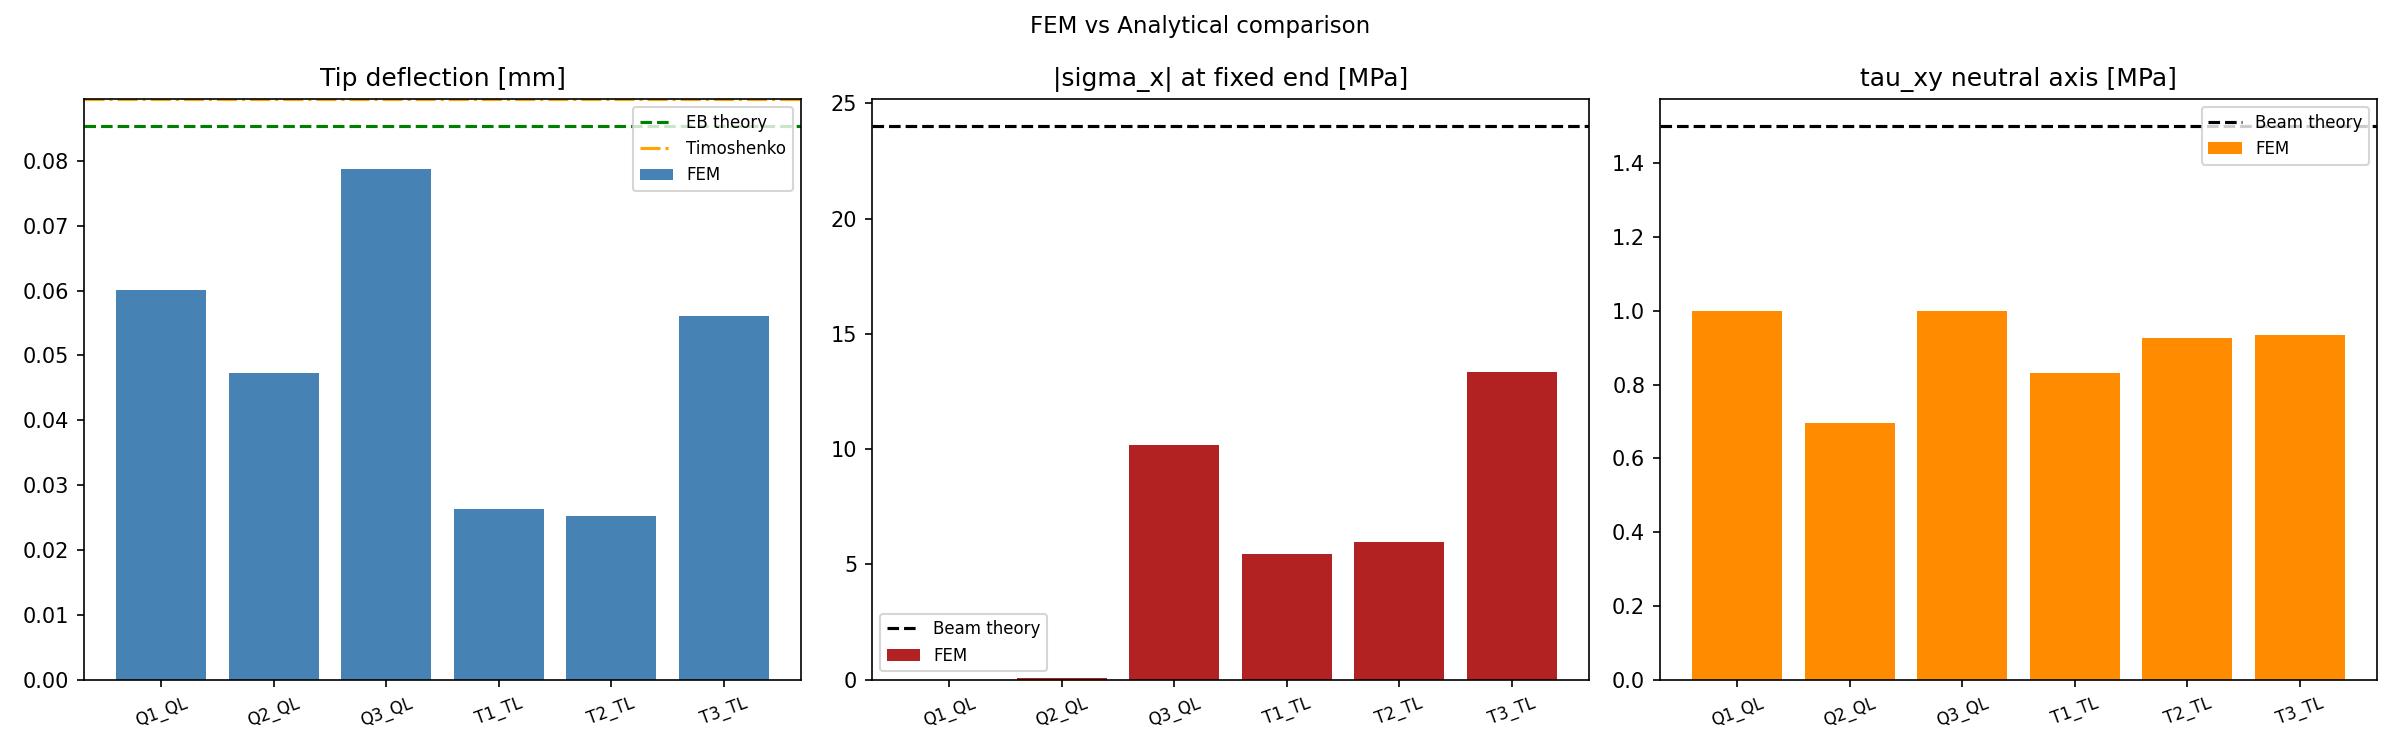
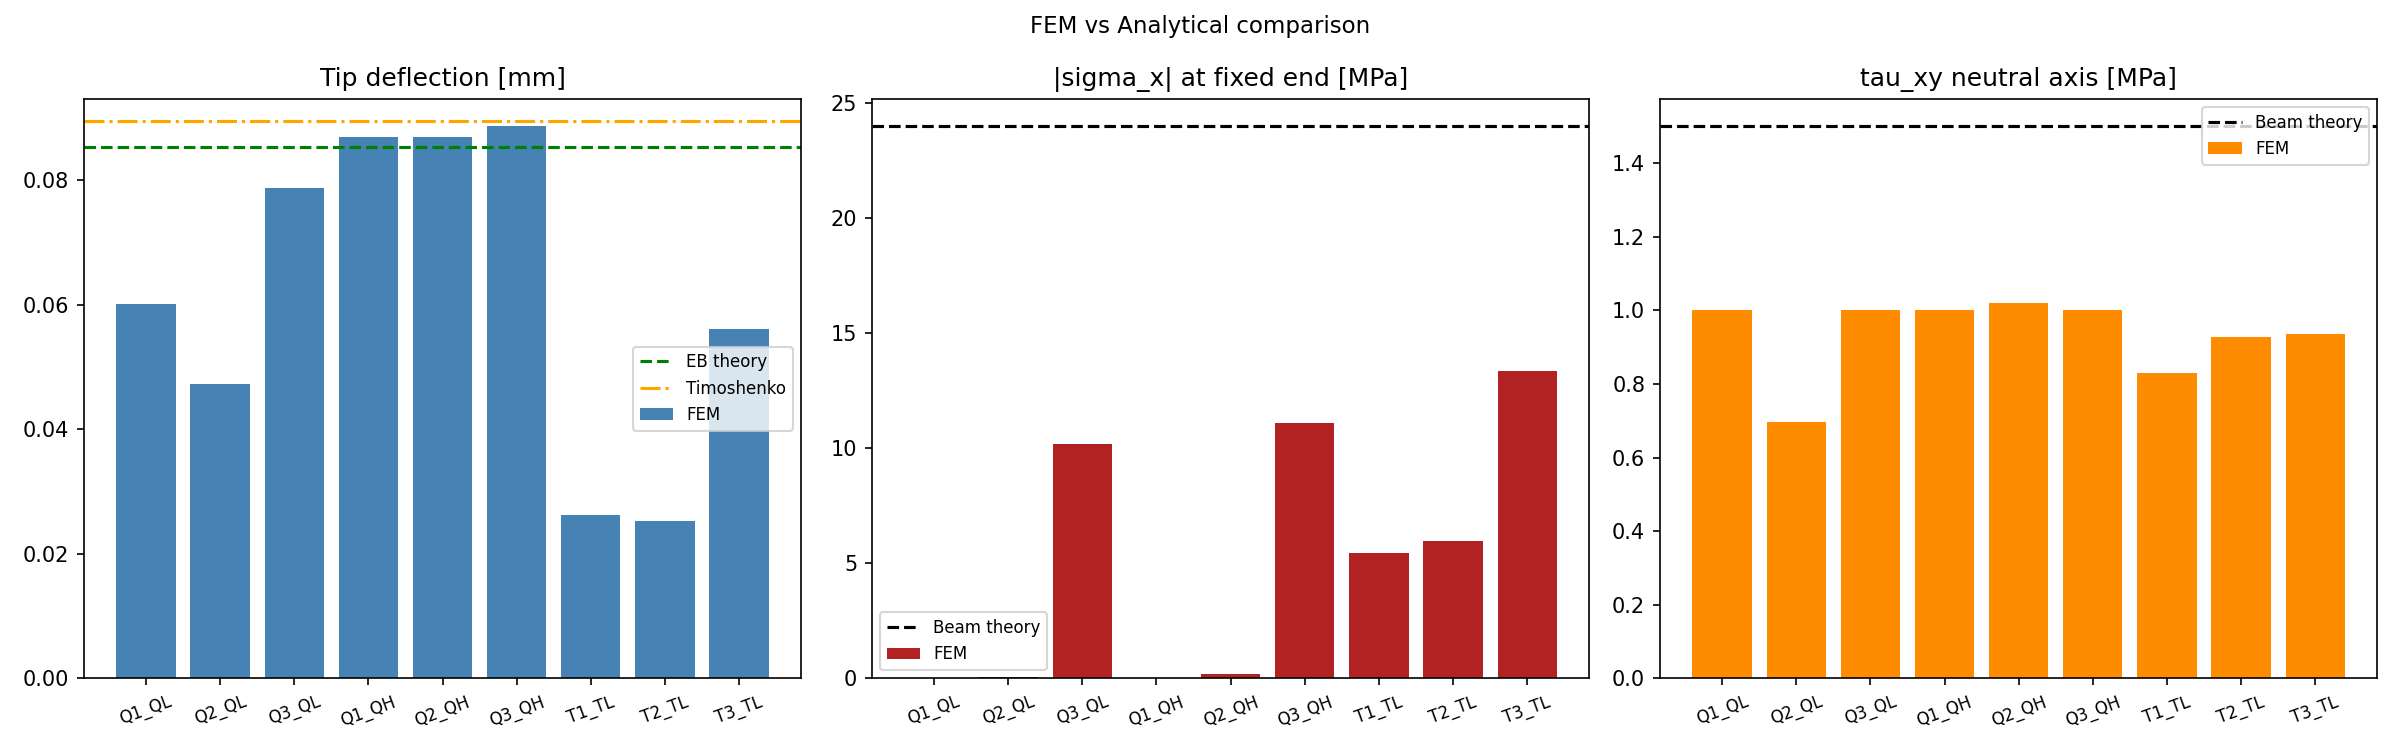
sec 2.1.2: add QH (8-node serendipity) element; Q1/Q2/Q3_QH cases

diff --git a/sec_02/2.1/2/fem_plane_stress_beam.py b/sec_02/2.1/2/fem_plane_stress_beam.py
@@ -7,10 +7,11 @@ The implementation is being migrated to the textbook's original separation:
     - mesh pattern (figure 2.3): Q1, Q2, Q3, T1, T2, T3
     - element version (figure 2.2): QL, QH, TL, TH, ...
 
-This file currently implements the linear versions only:
+This file currently implements the linear and serendipity quadrilateral versions:
 
-    - Q1_QL, Q2_QL, Q3_QL
-    - T1_TL, T2_TL, T3_TL
+    - Q1_QL, Q2_QL, Q3_QL   (4-node bilinear quadrilateral)
+    - Q1_QH, Q2_QH, Q3_QH   (8-node serendipity quadrilateral)
+    - T1_TL, T2_TL, T3_TL   (3-node constant-strain triangle)
 
 The important correction is that T1/T2/T3 are now generated as direct
 triangle meshes following figure 2.3, instead of being produced by splitting
@@ -78,11 +79,14 @@ boundary_conditions: dict[str, Any] = {
     "left_edge_fixed": True,  # ux = uy = 0 on x = 0
 }
 
-# Current implemented cases: figure 2.3 mesh patterns with linear versions.
+# Current implemented cases: figure 2.3 mesh patterns with linear and QH versions.
 analysis_cases: list[dict[str, str]] = [
     {"name": "Q1_QL", "mesh_pattern": "Q1", "element_version": "QL"},
     {"name": "Q2_QL", "mesh_pattern": "Q2", "element_version": "QL"},
     {"name": "Q3_QL", "mesh_pattern": "Q3", "element_version": "QL"},
+    {"name": "Q1_QH", "mesh_pattern": "Q1", "element_version": "QH"},
+    {"name": "Q2_QH", "mesh_pattern": "Q2", "element_version": "QH"},
+    {"name": "Q3_QH", "mesh_pattern": "Q3", "element_version": "QH"},
     {"name": "T1_TL", "mesh_pattern": "T1", "element_version": "TL"},
     {"name": "T2_TL", "mesh_pattern": "T2", "element_version": "TL"},
     {"name": "T3_TL", "mesh_pattern": "T3", "element_version": "TL"},
@@ -125,6 +129,8 @@ class MeshData:
     fixed_nodes: np.ndarray  # shape (F,)    node indices on x = 0
     mesh_pattern: str
     characteristic_dx: float
+    q8_elements: np.ndarray | None = None  # shape (E, 8)  node indices per Q8 cell
+    right_edge_midnodes: np.ndarray | None = None  # shape (R,)  midside node per right edge
 
 
 @dataclass
@@ -381,11 +387,96 @@ def _build_triangle_mesh(pattern: str) -> MeshData:
 
 
 def generate_beam_mesh(case_cfg: dict[str, str]) -> MeshData:
-    """Generate one textbook mesh pattern directly from figure 2.3."""
+    """Generate one textbook mesh pattern directly from figure 2.3.
+
+    For QH element version the base Q4 mesh is enriched with midside nodes
+    to produce a Q8 (serendipity) mesh.
+    """
     mesh_pattern = case_cfg["mesh_pattern"]
+    element_version = case_cfg["element_version"]
     if mesh_pattern.startswith("Q"):
-        return _build_quad_mesh(mesh_pattern)
+        base_mesh = _build_quad_mesh(mesh_pattern)
+        if element_version == "QH":
+            return enrich_q4_to_q8(base_mesh)
+        return base_mesh
     return _build_triangle_mesh(mesh_pattern)
+
+
+# ---------------------------------------------------------------------------
+# Q8 mesh enrichment
+# ---------------------------------------------------------------------------
+
+
+def enrich_q4_to_q8(mesh: MeshData) -> MeshData:
+    """Add midside nodes to a Q4 mesh to produce a Q8 (serendipity) mesh.
+
+    Each edge shared between two Q4 elements gets exactly one midside node.
+    Boundary edges on the right face and fixed left face are handled
+    consistently so traction and constraint DOFs are correct.
+
+    Node ordering in each Q8 element:
+        [n_sw, n_se, n_ne, n_nw, m_s, m_e, m_n, m_w]
+
+    Args:
+        mesh: Q4 MeshData (must have quad_elements set).
+
+    Returns:
+        New MeshData with extended nodes, q8_elements, right_edge_midnodes,
+        and fixed_nodes augmented by left-edge midside nodes.
+
+    Raises:
+        ValueError: If mesh has no quadrilateral connectivity.
+    """
+    if mesh.quad_elements is None:
+        raise ValueError("enrich_q4_to_q8 requires quad_elements to be set.")
+
+    new_nodes: list[np.ndarray] = list(mesh.nodes)
+    edge_to_midnode: dict[tuple[int, int], int] = {}
+
+    def get_midnode(n1: int, n2: int) -> int:
+        """Return (creating if needed) the midside node index for edge (n1,n2)."""
+        key = (min(n1, n2), max(n1, n2))
+        if key not in edge_to_midnode:
+            mid = (mesh.nodes[n1] + mesh.nodes[n2]) * 0.5
+            idx = len(new_nodes)
+            new_nodes.append(mid)
+            edge_to_midnode[key] = idx
+        return edge_to_midnode[key]
+
+    # Build Q8 connectivity.  Q4 ordering: [SW, SE, NE, NW]
+    q8_list: list[list[int]] = []
+    for conn in mesh.quad_elements:
+        n_sw, n_se, n_ne, n_nw = int(conn[0]), int(conn[1]), int(conn[2]), int(conn[3])
+        m_s = get_midnode(n_sw, n_se)  # South midside
+        m_e = get_midnode(n_se, n_ne)  # East  midside
+        m_n = get_midnode(n_ne, n_nw)  # North midside
+        m_w = get_midnode(n_nw, n_sw)  # West  midside
+        q8_list.append([n_sw, n_se, n_ne, n_nw, m_s, m_e, m_n, m_w])
+
+    # Right-edge midside nodes (one per original right edge pair).
+    right_mid: list[int] = []
+    for n1, n2 in mesh.right_edges:
+        right_mid.append(get_midnode(int(n1), int(n2)))
+
+    # Fixed (left-edge) midside nodes.
+    sorted_fixed = np.sort(mesh.fixed_nodes)
+    left_mid: list[int] = []
+    for i in range(len(sorted_fixed) - 1):
+        left_mid.append(get_midnode(int(sorted_fixed[i]), int(sorted_fixed[i + 1])))
+
+    new_fixed = np.concatenate([mesh.fixed_nodes, np.asarray(left_mid, dtype=int)])
+
+    return MeshData(
+        nodes=np.asarray(new_nodes, dtype=float),
+        quad_elements=mesh.quad_elements,
+        tri_elements=None,
+        q8_elements=np.asarray(q8_list, dtype=int),
+        right_edges=mesh.right_edges,
+        right_edge_midnodes=np.asarray(right_mid, dtype=int),
+        fixed_nodes=new_fixed,
+        mesh_pattern=mesh.mesh_pattern,
+        characteristic_dx=mesh.characteristic_dx,
+    )
 
 
 # ---------------------------------------------------------------------------
@@ -521,6 +612,138 @@ def q4_stiffness(coords: np.ndarray, constitutive: np.ndarray, thickness: float)
 
 
 # ---------------------------------------------------------------------------
+# Q8 serendipity element functions
+# ---------------------------------------------------------------------------
+
+
+def q8_shape_derivatives(xi: float, eta: float) -> np.ndarray:
+    """Return shape function derivatives dN/d(xi,eta) for Q8 serendipity.
+
+    Node ordering:
+        0 = SW (-1,-1), 1 = SE (+1,-1), 2 = NE (+1,+1), 3 = NW (-1,+1),
+        4 = S  ( 0,-1), 5 = E  (+1, 0), 6 = N  ( 0,+1), 7 = W  (-1, 0).
+
+    Shape functions:
+        Corner i: N_i = (1/4)(1 + xi_i*xi)(1 + eta_i*eta)(xi_i*xi + eta_i*eta - 1)
+        Mid-S (4): N_4 = (1/2)(1 - xi^2)(1 - eta)
+        Mid-E (5): N_5 = (1/2)(1 + xi)(1 - eta^2)
+        Mid-N (6): N_6 = (1/2)(1 - xi^2)(1 + eta)
+        Mid-W (7): N_7 = (1/2)(1 - xi)(1 - eta^2)
+
+    Args:
+        xi: Parent-space xi coordinate.
+        eta: Parent-space eta coordinate.
+
+    Returns:
+        Shape (8, 2) array; row i is [dNi/dxi, dNi/deta].
+    """
+    dN = np.zeros((8, 2), dtype=float)
+
+    # Corner node derivatives: N_i = (1/4)(1+xi_i*xi)(1+eta_i*eta)(xi_i*xi+eta_i*eta-1)
+    # dN_0/dxi  = (1/4)(1-eta)(2xi+eta),  dN_0/deta = (1/4)(1-xi)(xi+2eta)
+    dN[0, 0] = 0.25 * (1.0 - eta) * (2.0 * xi + eta)
+    dN[0, 1] = 0.25 * (1.0 - xi) * (xi + 2.0 * eta)
+
+    # dN_1/dxi  = (1/4)(1-eta)(2xi-eta),  dN_1/deta = (1/4)(1+xi)(-xi+2eta)
+    dN[1, 0] = 0.25 * (1.0 - eta) * (2.0 * xi - eta)
+    dN[1, 1] = 0.25 * (1.0 + xi) * (-xi + 2.0 * eta)
+
+    # dN_2/dxi  = (1/4)(1+eta)(2xi+eta),  dN_2/deta = (1/4)(1+xi)(xi+2eta)
+    dN[2, 0] = 0.25 * (1.0 + eta) * (2.0 * xi + eta)
+    dN[2, 1] = 0.25 * (1.0 + xi) * (xi + 2.0 * eta)
+
+    # dN_3/dxi  = (1/4)(1+eta)(2xi-eta),  dN_3/deta = (1/4)(1-xi)(-xi+2eta)
+    dN[3, 0] = 0.25 * (1.0 + eta) * (2.0 * xi - eta)
+    dN[3, 1] = 0.25 * (1.0 - xi) * (-xi + 2.0 * eta)
+
+    # Midside node derivatives
+    # N_4 = (1/2)(1-xi^2)(1-eta):  dN_4/dxi = -xi(1-eta),  dN_4/deta = -(1-xi^2)/2
+    dN[4, 0] = -xi * (1.0 - eta)
+    dN[4, 1] = -0.5 * (1.0 - xi**2)
+
+    # N_5 = (1/2)(1+xi)(1-eta^2):  dN_5/dxi = (1-eta^2)/2,  dN_5/deta = -(1+xi)*eta
+    dN[5, 0] = 0.5 * (1.0 - eta**2)
+    dN[5, 1] = -(1.0 + xi) * eta
+
+    # N_6 = (1/2)(1-xi^2)(1+eta):  dN_6/dxi = -xi(1+eta),  dN_6/deta = (1-xi^2)/2
+    dN[6, 0] = -xi * (1.0 + eta)
+    dN[6, 1] = 0.5 * (1.0 - xi**2)
+
+    # N_7 = (1/2)(1-xi)(1-eta^2):  dN_7/dxi = -(1-eta^2)/2,  dN_7/deta = -(1-xi)*eta
+    dN[7, 0] = -0.5 * (1.0 - eta**2)
+    dN[7, 1] = -(1.0 - xi) * eta
+
+    return dN
+
+
+def q8_b_matrix(coords: np.ndarray, xi: float, eta: float) -> tuple[np.ndarray, float]:
+    """Build Q8 strain-displacement matrix and Jacobian determinant.
+
+    Args:
+        coords: Shape (8, 2) node coordinates in the order defined by
+            q8_shape_derivatives (corners SW,SE,NE,NW then midsides S,E,N,W).
+        xi, eta: Parent-space coordinates.
+
+    Returns:
+        Tuple of (B matrix (3x16), det(J)).
+    """
+    dnd_parent = q8_shape_derivatives(xi, eta)  # (8, 2)
+    jacobian = coords.T @ dnd_parent  # (2, 2)
+    det_j = float(np.linalg.det(jacobian))
+    if det_j <= 0.0:
+        raise ValueError(f"Invalid Q8 Jacobian (det={det_j:.6e}). Check mesh distortion.")
+
+    inv_j = np.linalg.inv(jacobian)
+    dnd_global = dnd_parent @ inv_j  # (8, 2)
+
+    b_mat = np.zeros((3, 16), dtype=float)
+    for i in range(8):
+        dnx = dnd_global[i, 0]
+        dny = dnd_global[i, 1]
+        base = 2 * i
+        b_mat[0, base] = dnx
+        b_mat[1, base + 1] = dny
+        b_mat[2, base] = dny
+        b_mat[2, base + 1] = dnx
+
+    return b_mat, det_j
+
+
+def q8_stiffness(coords: np.ndarray, constitutive: np.ndarray, thickness: float) -> np.ndarray:
+    """Compute 16x16 Q8 element stiffness matrix using 3x3 Gauss integration.
+
+    Three-point Gauss quadrature is sufficient for exact integration of the
+    rational integrands arising from non-rectangular (distorted) Q8 elements.
+
+    Args:
+        coords: Shape (8, 2) node coordinates.
+        constitutive: 3x3 constitutive matrix.
+        thickness: Out-of-plane thickness b.
+
+    Returns:
+        16x16 stiffness matrix.
+    """
+    gp = np.sqrt(3.0 / 5.0)
+    w1, w2 = 5.0 / 9.0, 8.0 / 9.0
+    gauss_points = [
+        (-gp, -gp, w1 * w1),
+        (-gp, 0.0, w1 * w2),
+        (-gp, gp, w1 * w1),
+        (0.0, -gp, w2 * w1),
+        (0.0, 0.0, w2 * w2),
+        (0.0, gp, w2 * w1),
+        (+gp, -gp, w1 * w1),
+        (+gp, 0.0, w1 * w2),
+        (+gp, gp, w1 * w1),
+    ]
+    ke = np.zeros((16, 16), dtype=float)
+    for xi, eta, w in gauss_points:
+        b_mat, det_j = q8_b_matrix(coords, xi, eta)
+        ke += thickness * w * (b_mat.T @ constitutive @ b_mat) * det_j
+    return ke
+
+
+# ---------------------------------------------------------------------------
 # CST splitting utilities
 # ---------------------------------------------------------------------------
 
@@ -604,6 +827,11 @@ def assemble_system(
             raise ValueError(f"Quadrilateral connectivity missing for pattern {mesh.mesh_pattern}.")
         elements = mesh.quad_elements
         dof_per_element = 8
+    elif element_version == "QH":
+        if mesh.q8_elements is None:
+            raise ValueError(f"Q8 connectivity missing for pattern {mesh.mesh_pattern}.")
+        elements = mesh.q8_elements
+        dof_per_element = 16
     else:
         raise NotImplementedError(f"Element version {element_version} is not implemented yet.")
 
@@ -615,8 +843,10 @@ def assemble_system(
         coords = nodes[conn]
         if element_version == "TL":
             ke = cst_stiffness(coords, constitutive, thickness)
-        else:
+        elif element_version == "QL":
             ke = q4_stiffness(coords, constitutive, thickness)
+        else:
+            ke = q8_stiffness(coords, constitutive, thickness)
 
         dofs = np.zeros(dof_per_element, dtype=int)
         for local_idx, nid in enumerate(conn):
@@ -628,14 +858,22 @@ def assemble_system(
                 stiffness[i_glo, j_glo] += ke[i_loc, j_loc]
 
     # Apply right-face shear traction as equivalent nodal forces.
-    # Right-edge nodes are in the original mesh (centroid nodes are interior).
-    for n1, n2 in mesh.right_edges:
+    # For QL/TL: uniform traction on a linear edge -> each corner node gets L/2.
+    # For QH: quadratic edge with 3 nodes -> consistent nodal forces [1/6, 2/3, 1/6]*L.
+    for edge_idx, (n1, n2) in enumerate(mesh.right_edges):
         x1, y1 = mesh.nodes[n1]
         x2, y2 = mesh.nodes[n2]
         edge_length = float(np.hypot(x2 - x1, y2 - y1))
-        nodal_fy = traction_y * thickness * edge_length / 2.0
-        force[2 * n1 + 1] += nodal_fy
-        force[2 * n2 + 1] += nodal_fy
+        if element_version == "QH" and mesh.right_edge_midnodes is not None:
+            # Consistent nodal force for 3-node quadratic edge under uniform traction.
+            n_mid = int(mesh.right_edge_midnodes[edge_idx])
+            force[2 * n1 + 1] += traction_y * thickness * edge_length / 6.0
+            force[2 * n2 + 1] += traction_y * thickness * edge_length / 6.0
+            force[2 * n_mid + 1] += traction_y * thickness * edge_length * (2.0 / 3.0)
+        else:
+            nodal_fy = traction_y * thickness * edge_length / 2.0
+            force[2 * n1 + 1] += nodal_fy
+            force[2 * n2 + 1] += nodal_fy
 
     return stiffness.tocsr(), force, elements, nodes
 
@@ -720,12 +958,21 @@ def compute_element_stress(
         if element_version == "TL":
             b_mat, _ = cst_b_matrix(coords)
             sigma = constitutive @ (b_mat @ ue)
-        else:
+        elif element_version == "QL":
             gauss = 1.0 / np.sqrt(3.0)
             gp = [(-gauss, -gauss), (gauss, -gauss), (gauss, gauss), (-gauss, gauss)]
             sigmas = []
             for xi, eta in gp:
                 b_mat, _ = q4_b_matrix(coords, xi, eta)
+                sigmas.append(constitutive @ (b_mat @ ue))
+            sigma = np.mean(np.asarray(sigmas), axis=0)
+        else:
+            # QH: average stress over 2x2 Gauss points (sufficient for stress output)
+            g = 1.0 / np.sqrt(3.0)
+            gp_qh = [(-g, -g), (g, -g), (g, g), (-g, g)]
+            sigmas = []
+            for xi, eta in gp_qh:
+                b_mat, _ = q8_b_matrix(coords, xi, eta)
                 sigmas.append(constitutive @ (b_mat @ ue))
             sigma = np.mean(np.asarray(sigmas), axis=0)
 
@@ -894,14 +1141,26 @@ def solve_case(
 
 
 def build_plot_triangles(mesh: MeshData) -> np.ndarray:
-    """Build triangle connectivity for plotting from the explicit mesh topology."""
+    """Build triangle connectivity for plotting from the explicit mesh topology.
+
+    For Q8 meshes the plot uses the 4 corner nodes of each element (same
+    decomposition as Q4) so that the mesh outline is visualised correctly
+    without adding centroid nodes just for display purposes.
+    """
     if mesh.tri_elements is not None:
         return mesh.tri_elements
-    if mesh.quad_elements is None:
+
+    # Use Q4 corners, or the first 4 nodes of each Q8 element (corner nodes).
+    quad_conn = mesh.quad_elements
+    if quad_conn is None and mesh.q8_elements is not None:
+        quad_conn = mesh.q8_elements[:, :4]
+
+    if quad_conn is None:
         raise ValueError(f"Mesh pattern {mesh.mesh_pattern} has no plottable connectivity.")
 
     triangles: list[list[int]] = []
-    for n_sw, n_se, n_ne, n_nw in mesh.quad_elements:
+    for row in quad_conn:
+        n_sw, n_se, n_ne, n_nw = int(row[0]), int(row[1]), int(row[2]), int(row[3])
         triangles.append([n_sw, n_se, n_ne])
         triangles.append([n_sw, n_ne, n_nw])
     return np.asarray(triangles, dtype=int)
